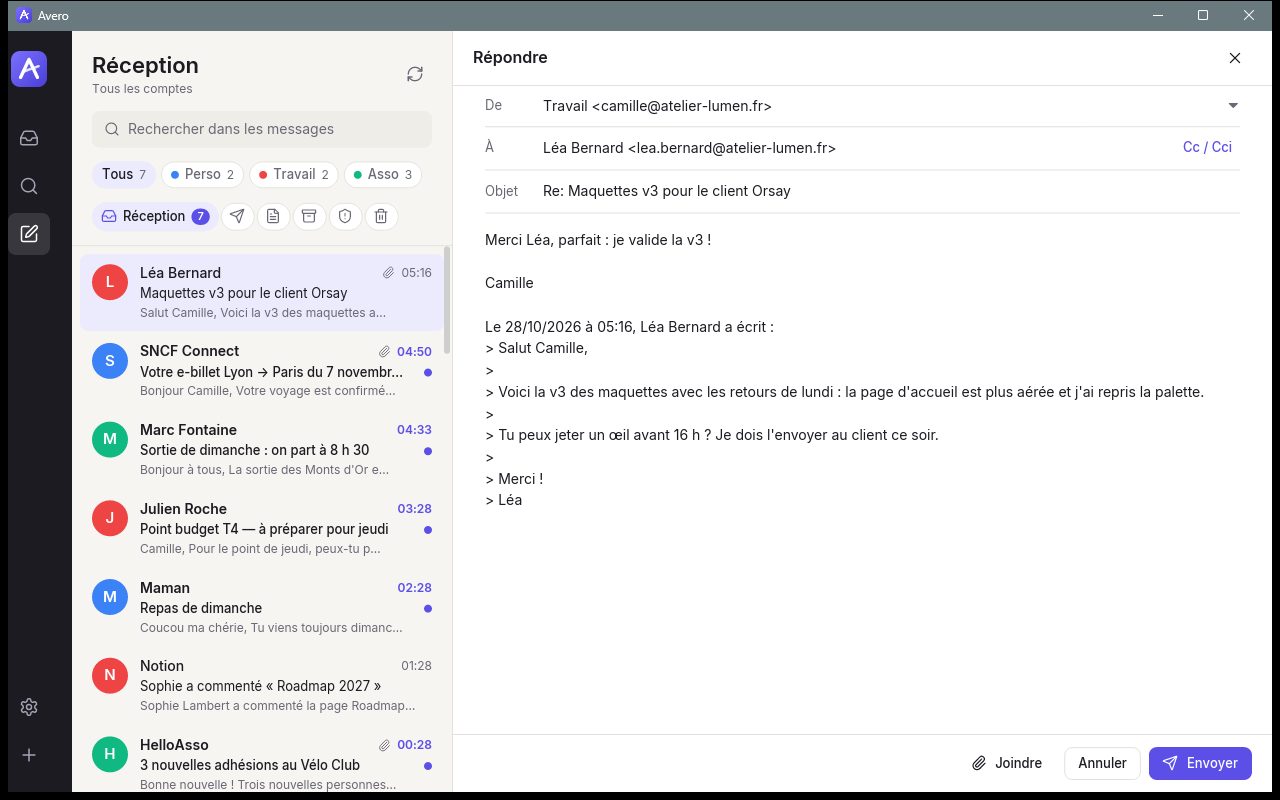
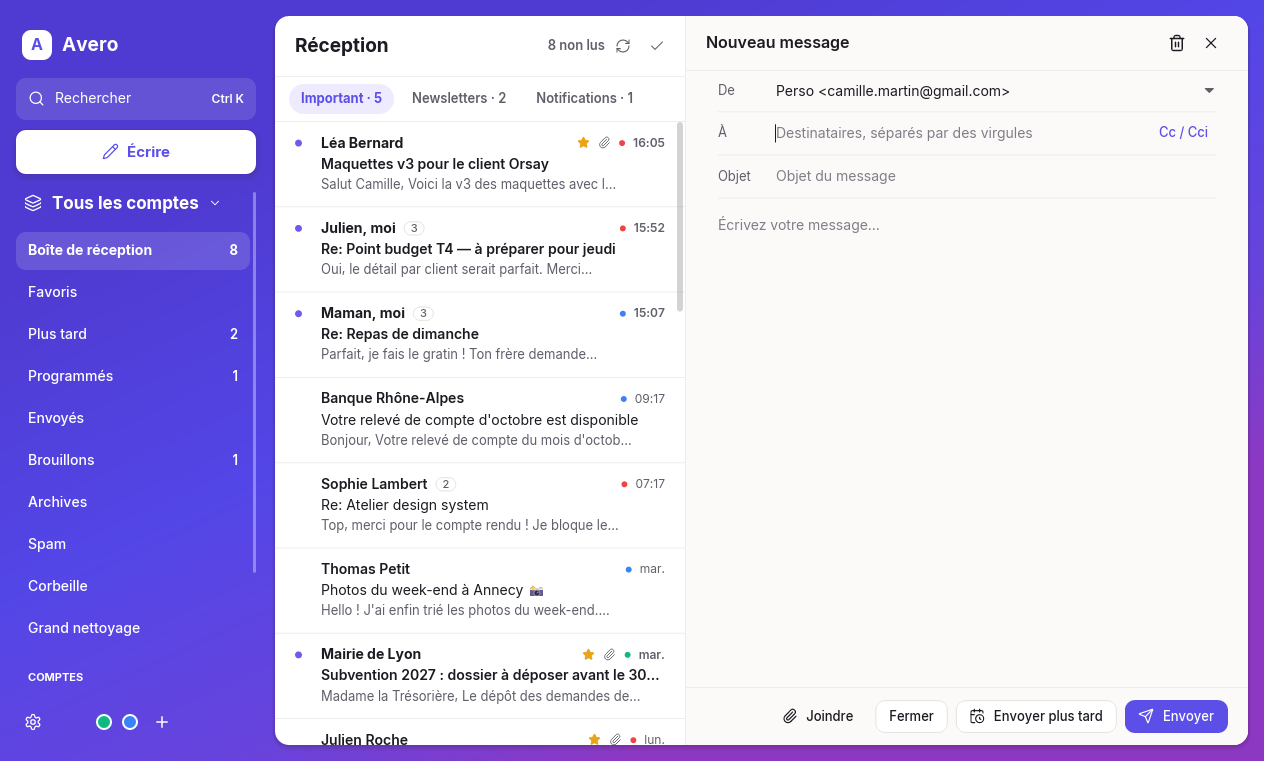
docs: screenshots of the V2 design
Claude-Session: https://claude.ai/code/session_01GbosYoftF6v6xS9GLEL4yF

diff --git a/README.md b/README.md
@@ -10,6 +10,8 @@ Supported platforms: Windows, macOS and Linux. The interface is in French.
 
 ![Dark mode](docs/screenshots/inbox-dark.png)
 
+!["Océan" colours (Réglages › Apparence: Avero, Orange or Océan)](docs/screenshots/inbox-ocean.png)
+
 ## Features
 
 - **Easy account setup.** Type your address and Avero finds the servers by itself (built-in table, Thunderbird ISPDB, `autoconfig.<domain>`, then a guess). Gmail and Microsoft accounts can sign in with "Continuer avec Google / Microsoft" in the browser (OAuth2, PKCE). Other providers use a password or an app password. The IMAP and SMTP logins are tested before the account is saved.
